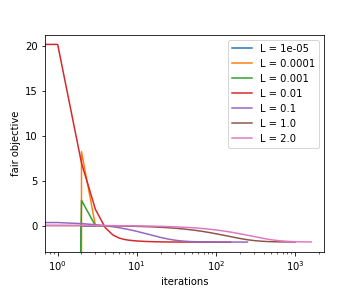
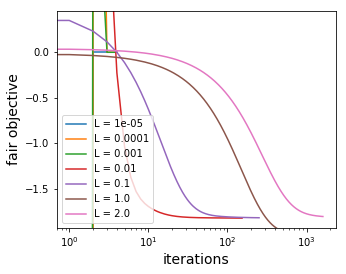
made plots better;

diff --git a/notebook_utils/visualization.py b/notebook_utils/visualization.py
@@ -1,5 +1,5 @@
 from matplotlib import pyplot as plt
-
+FONTSIZE = 14
 
 def plot_Lipschitz_convergence(save_path, energy_list_by_L):
     """
@@ -15,20 +15,20 @@ def plot_Lipschitz_convergence(save_path, energy_list_by_L):
     for L, lis in energy_list_by_L.items():
         ax.plot(range(len(lis)), lis, label=f"L = {L}")
     ax.legend()
-    ax.set_ylabel("fair objective")
-    ax.set_xlabel("iterations")
+    ax.set_ylabel("fair objective", fontsize=FONTSIZE)
+    ax.set_xlabel("iterations", fontsize=FONTSIZE)
     suffix = ""
     margin = 0.05
 
-    max_val = max(energy_list_by_L[0.01][1:])
-    min_val = energy_list_by_L[0.01][-1]
+    max_val = sorted([max(lis[1:]) for lis in energy_list_by_L.values()])[-4]
+    min_val = sorted([lis[-1] for lis in energy_list_by_L.values()])[1]
     y_range = max_val - min_val
     ax.set_ylim(min_val-y_range*margin, max_val+y_range*margin)
 
     x_range = max([len(lis) for lis in energy_list_by_L.values()])
     if x_range > 100:
         ax.set_xscale('log')
-    plt.savefig(save_path.format(suffix=suffix))
+    plt.savefig(save_path.format(suffix=suffix), bbox_inches="tight")
     plt.show()
     plt.close('all')
 
@@ -48,10 +48,10 @@ def plot_Lipschitz_conv_iter(save_path, conv_iter_by_L):
     fig, ax = plt.subplots(1,1,figsize=(5,4))
     for L, conv_iter in conv_iter_by_L.items():
         ax.bar(str(L), conv_iter["mean"], color="darkred")
-    ax.set_ylabel("iterations to convergence in bound update")
-    ax.set_xlabel("Lipschitz constant")
+    ax.set_ylabel("iterations to convergence in bound update", fontsize=12)
+    ax.set_xlabel("Lipschitz constant", fontsize=FONTSIZE)
     if max([conv_iter["mean"] for conv_iter in conv_iter_by_L.values()]) > 500:
         ax.set_yscale('log')
-    plt.savefig(save_path.format(suffix=""))
+    plt.savefig(save_path.format(suffix=""), bbox_inches="tight")
     plt.show()
     plt.close('all')

diff --git a/notebook_utils/fetching_and_printing.py b/notebook_utils/fetching_and_printing.py
@@ -166,18 +166,17 @@ def fetch_and_print_Lipschitz(configs: dict, use_datasets: list, arg_getting_fn:
                     continue
 
                 keys = ["convergence_iter", "optimum", "time"]
-                # filtered_entries = filter_outliers(existing_entries, keys)
-                # print(f"\n    Lipschitz = {L}       (excluded {len(existing_entries)-len(filtered_entries)} outliers)")
-                # existing_entries = filtered_entries
+                filtered_entries, seeds = filter_outliers(existing_entries, keys)
+                print(f"\n    Lipschitz = {L}       without {len(seeds)} outliers: {seeds}")
+                existing_entries = filtered_entries
+                # print(f"\n    Lipschitz = {L}")
 
                 energy_lists_by_run = []
                 for entry in existing_entries:
                     with open(os.path.join(args.output_path, entry["energy_list_file"]), "r") as f:
                         energy_lists_by_run.append(json.loads(f.read()))
                     
-                energy_list_by_L[L] = energy_lists_by_run[0]
-
-                print(f"\n    Lipschitz = {L}")
+                energy_list_by_L[L] = energy_lists_by_run[2]
                 conv_iter_by_L[L] = print_M_and_SD(existing_entries, keys)["convergence_iter"]
 
 
